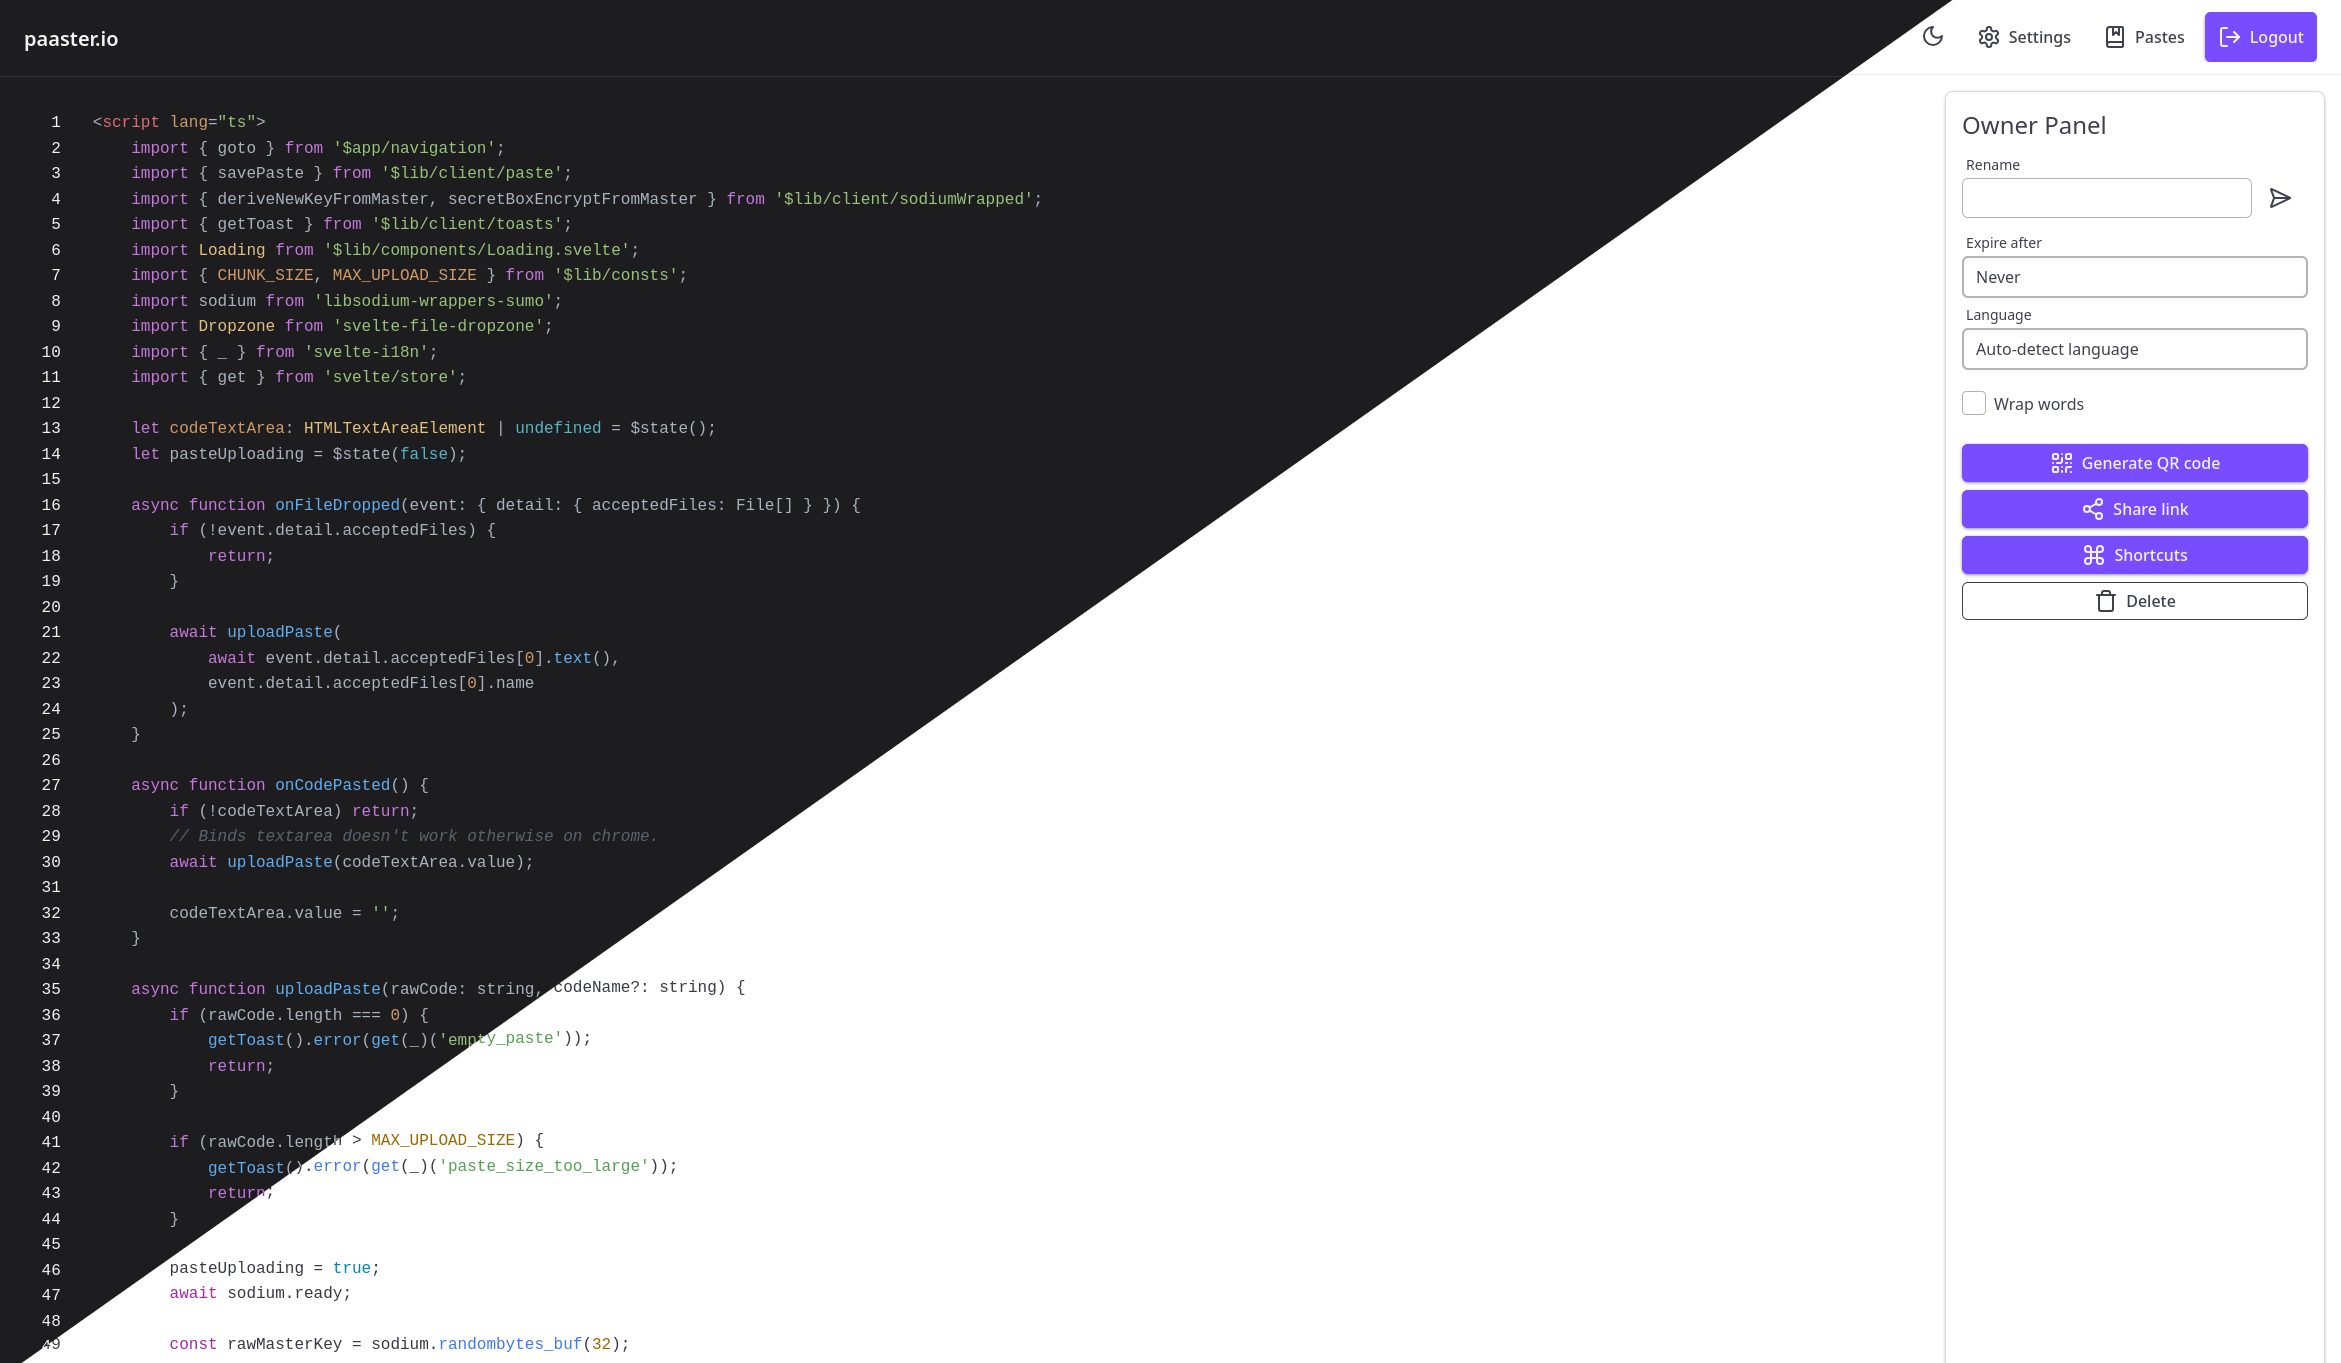
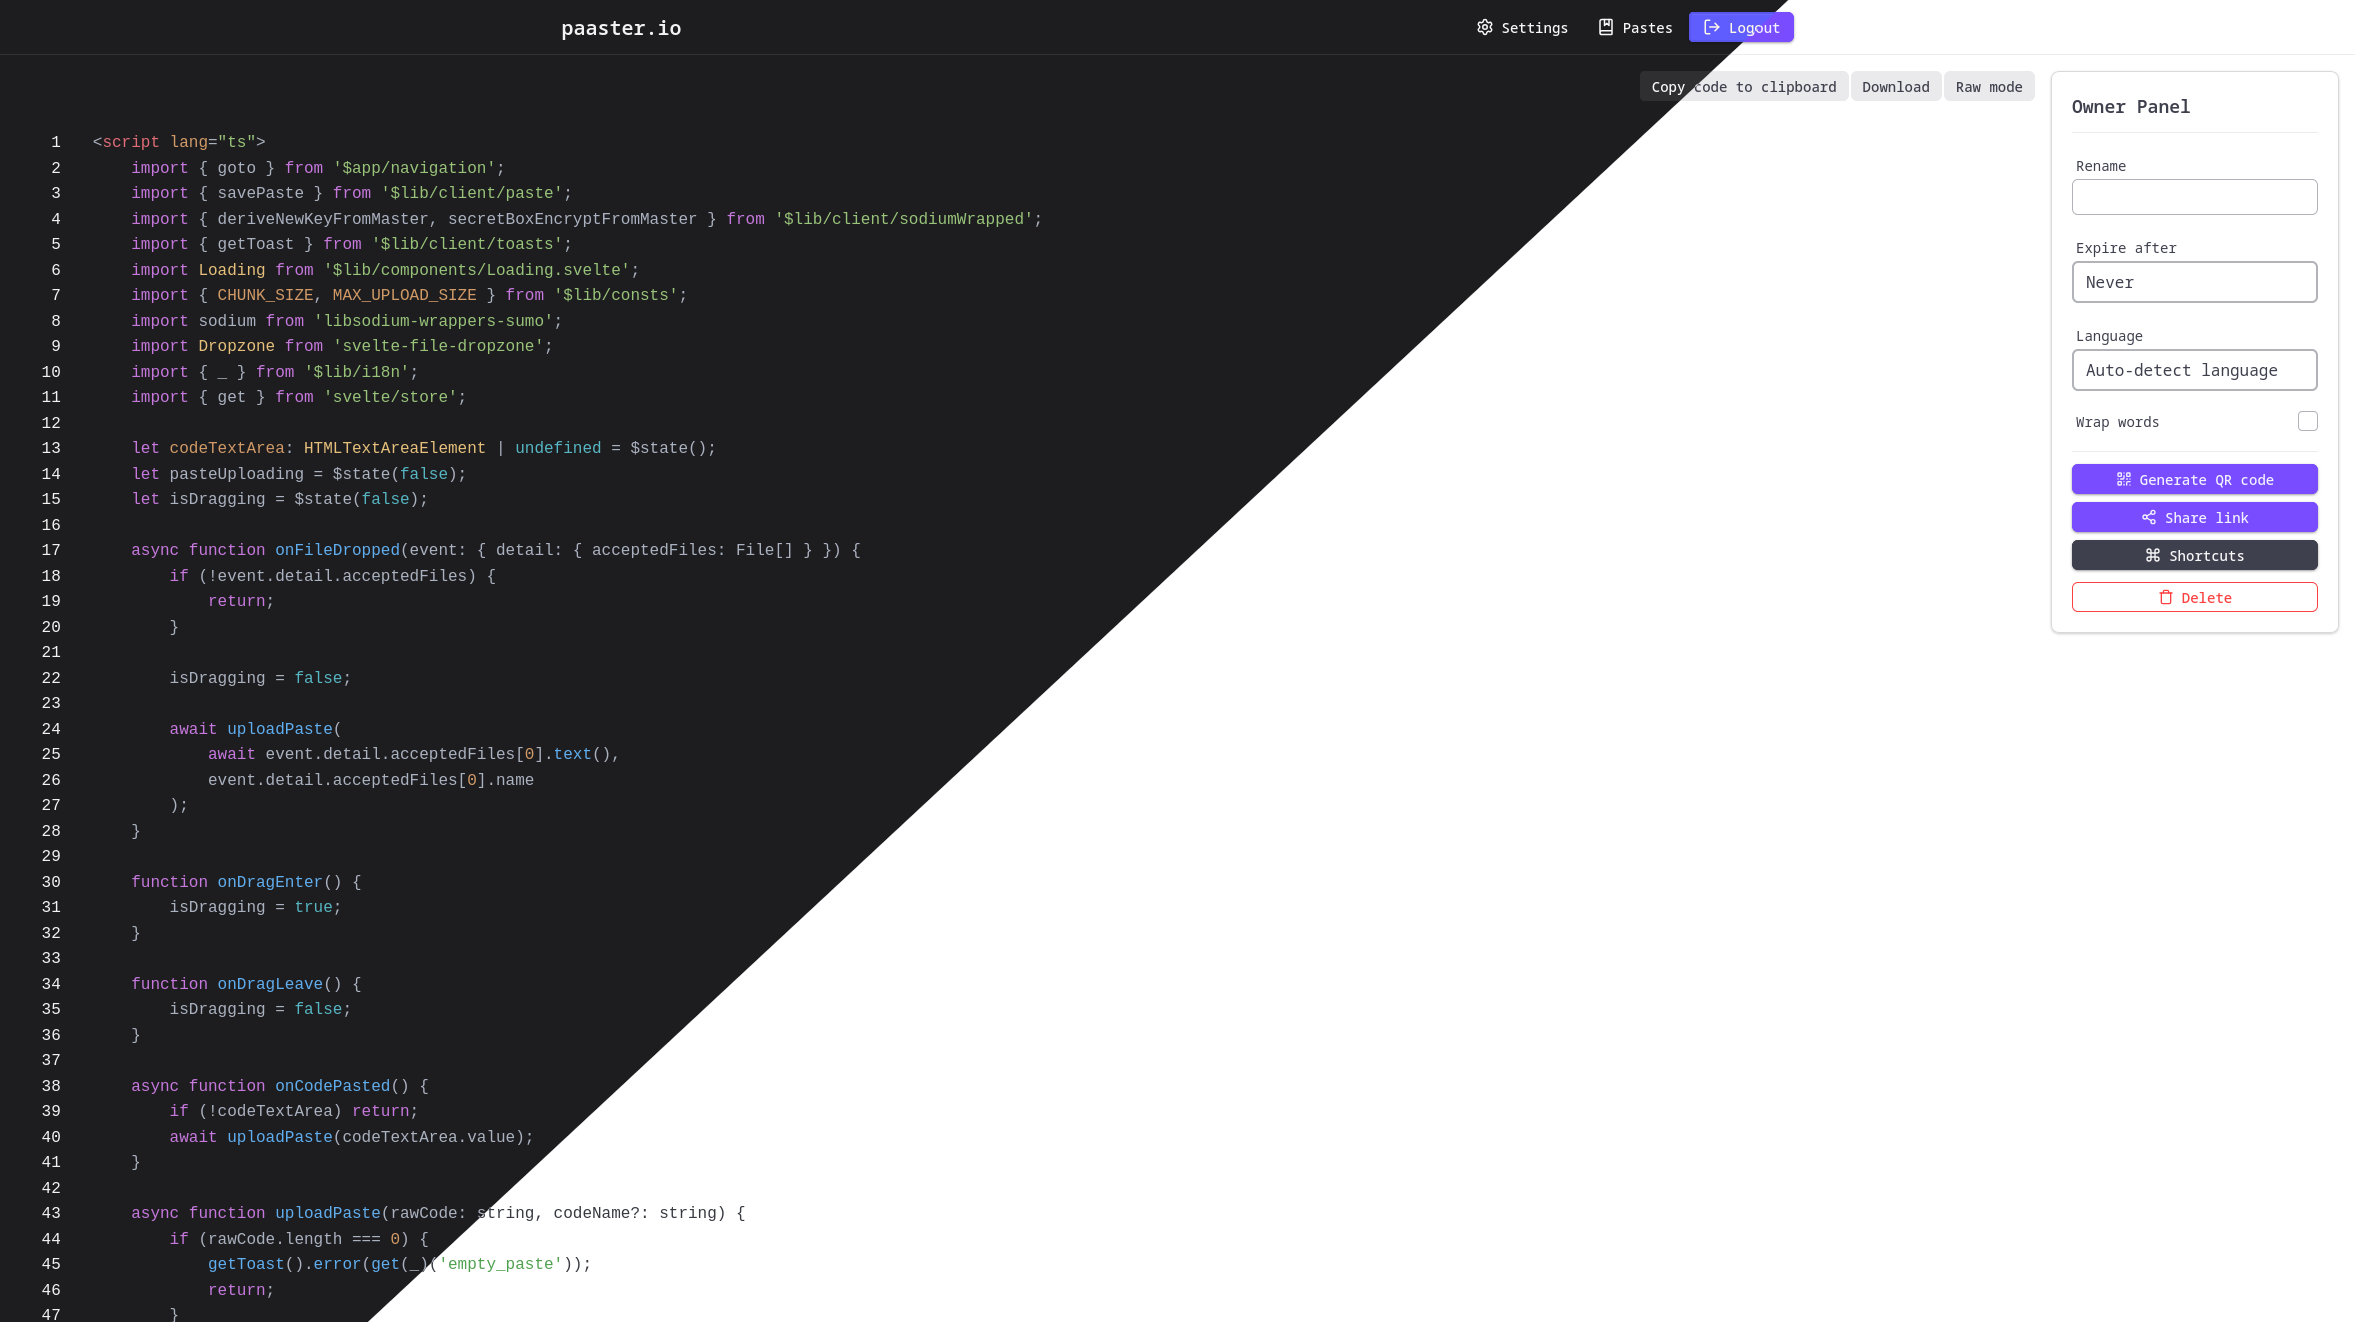
Update readme

diff --git a/README.md b/README.md
@@ -1,44 +1,68 @@
-&nbsp;
-
 <div align="center">
   <img src="./assets/logo.png" width="300px" />
   <h1>Paaster.io</h1>
-  <quote>
+  <blockquote>
     Paaster is a secure and user-friendly pastebin application that prioritizes privacy and simplicity. With end-to-end encryption and paste history, Paaster ensures that your pasted code remains confidential and accessible.
-  </quote>
+  </blockquote>
 
-<a href="https://paaster.io/terms-of-service">Terms of service |</a>
-<a href="https://paaster.io/privacy-policy"> Privacy policy</a>
+  <a href="https://paaster.io/terms-of-service">Terms of service</a> · <a href="https://paaster.io/privacy-policy">Privacy policy</a>
 
+  <br><br>
+
+  <a href="https://fink.inlang.com/github.com/WardPearce/paaster"><img src="https://img.shields.io/badge/Help_translate-0a0a0a?style=for-the-badge" alt="Translate"></a>
+  <a href="https://github.com/WardPearce/paaster/releases"><img src="https://img.shields.io/github/v/release/WardPearce/paaster?style=for-the-badge&label=Release&color=0a0a0a" alt="Release"></a>
+  <a href="https://matrix.to/#/#ward:matrix.org"><img src="https://img.shields.io/badge/Chat-0a0a0a?style=for-the-badge&logo=matrix" alt="Matrix"></a>
+  <a href="https://hub.docker.com/r/wardpearce/paaster"><img src="https://img.shields.io/docker/pulls/wardpearce/paaster?style=for-the-badge&label=Docker&color=0a0a0a" alt="Docker"></a>
 </div>
 
-&nbsp;
-
-[Help translate paaster!](https://fink.inlang.com/github.com/WardPearce/paaster)
+---
 
 # Preview
+
 ![Preview of paaster](./previews/image.png)
 
+---
+
+# Table of Contents
+
+- [Features](#features)
+- [Deployment](#deployment)
+  - [Docker Compose](#docker-compose)
+  - [Reverse Proxy](#reverse-proxy)
+  - [Minio Setup](#minio)
+- [Security](#security)
+  - [What is E2EE?](#what-is-e2ee)
+  - [FAQ](#faq)
+- [Cipher](#cipher)
+- [Requesting Features](#requesting-features)
+- [Support](#support)
+
+---
 
 # Features
-- [End-to-end encryption](#what-is-e2ee).
-- Memory efficient.
-- File drag & drop.
-- Shortcuts.
-- Paste history.
+
+- [End-to-end encryption](#what-is-e2ee)
+- Memory efficient
+- File drag & drop
+- Keyboard shortcuts
+- Paste history
 - Themes
-- Delete after view or X amount of time.
-- Share via QR code.
+- Delete after view or X amount of time
+- Share via QR code
 - [CLI Tool](https://github.com/WardPearce/paaster-cli)
-- i18n support ([Contribute](https://fink.inlang.com/github.com/WardPearce/paaster)).
-- Automatic or manual language detection.
-- No dynamically loaded 3rd party dependencies, meaning malicious code must be present at build time.
-- Use of `package-lock.json` & [Socket.dev](https://socket.dev/) to fight against supply chain attacks & vulnerabilities.
+- i18n support ([Contribute](https://fink.inlang.com/github.com/WardPearce/paaster))
+- Automatic or manual language detection
+- No dynamically loaded 3rd party dependencies — malicious code must be present at build time
+- Use of `package-lock.json` & [Socket.dev](https://socket.dev/) to fight supply chain attacks
+
+---
 
 # Deployment
-Paaster requires s3 for deployment, you can use a hosted solution or self-host using [MinIO](https://github.com/minio/minio).
 
-## Docker compose
+Paaster requires S3-compatible object storage. You can use a hosted solution or self-host using [MinIO](https://github.com/minio/minio).
+
+## Docker Compose
+
 ```yaml
 services:
   paaster:
@@ -68,8 +92,6 @@ services:
       MONGODB_DATA_DIR: /data/db
       MONDODB_LOG_DIR: /dev/null
 
-  # Not required if using a host s3 solution
-  # Must be reverse proxied so clients can access it
   paaster_minio:
     container_name: paaster_minio
     image: quay.io/minio/minio
@@ -85,26 +107,28 @@ services:
     command: server /data --console-address ":9001"
 ```
 
-## Reverse proxy
+## Reverse Proxy
 
 ### Caddy
+
 ```caddy
 paaster.io {
-	reverse_proxy localhost:3016
+    reverse_proxy localhost:3016
 }
 
-# Only required for Minio
+# Only required for MinIO
 s3.paaster.io {
-        header Access-Control-Allow-Origin "https://paaster.io" {
-                defer
-        }
-        header Access-Control-Allow-Methods "GET,POST,OPTIONS,HEAD,PATCH,PUT,DELETE"
-        header Access-Control-Allow-Headers "User-Agent,Authorization,Content-Type"
-	reverse_proxy localhost:9000
+    header Access-Control-Allow-Origin "https://paaster.io" {
+        defer
+    }
+    header Access-Control-Allow-Methods "GET,POST,OPTIONS,HEAD,PATCH,PUT,DELETE"
+    header Access-Control-Allow-Headers "User-Agent,Authorization,Content-Type"
+    reverse_proxy localhost:9000
 }
 ```
 
 ### NGINX
+
 ```nginx
 server {
     listen 80;
@@ -117,7 +141,7 @@ server {
     }
 }
 
-# Only required for minio
+# Only required for MinIO
 server {
     listen 80;
     server_name s3.paaster.io;
@@ -134,11 +158,14 @@ server {
 }
 ```
 
-## Minio
-### Install minio mc cli tool
-[Follow guide here](https://min.io/docs/minio/linux/reference/minio-mc.html#install-mc)
+## MinIO
+
+### Install mc CLI
+
+[Follow the official guide](https://min.io/docs/minio/linux/reference/minio-mc.html#install-mc)
 
 ### Add instance
+
 ```
 mc alias set minio_instance https://s3.paaster.io my_minio_username my_minio_password
 ```
@@ -146,23 +173,27 @@ mc alias set minio_instance https://s3.paaster.io my_minio_username my_minio_pas
 ### Create bucket
 
 ```
-mc mb minio_instance/paaster;mc anonymous set none minio_instance/paaster
+mc mb minio_instance/paaster
+mc anonymous set none minio_instance/paaster
 ```
 
 ### Get credentials
+
 ```
 mc admin accesskey create minio_instance/my_minio_username
 ```
 
 ### Object storage providers
+
 - [iDrive e2](https://www.idrive.com/e2/) (no free tier anymore)
 - [Wasabi Hot Cloud Storage](https://wasabi.com/hot-cloud-storage/)
-- [Storj](https://www.storj.io/) (25GB free tier)
+- [Storj](https://www.storj.io/) (25 GB free tier)
 - [Contabo object storage](https://contabo.com/en/object-storage/)
 - [Cloudflare R2](https://www.cloudflare.com/products/r2/)
 - [Amazon S3](https://aws.amazon.com/s3/)
 - [Google Cloud Storage](https://cloud.google.com/storage)
 
+---
 
 # Security
 
@@ -170,38 +201,50 @@ mc admin accesskey create minio_instance/my_minio_username
 
 End-to-end encryption (E2EE) is a zero-trust encryption methodology. When you paste code into Paaster, it is encrypted locally in your browser using a secret that is never shared with the server. Only people you share the link with can view the paste.
 
-## Can I trust a instance of paaster not hosted by me?
+## FAQ
 
-No. Anyone could modify the functionality of Paaster to expose your secret key to the server. We recommend using a instance you host or trust.
+### Can I trust an instance of Paaster not hosted by me?
 
-## How are client secrets stored?
+No. Anyone could modify the functionality of Paaster to expose your secret key to the server. We recommend using an instance you host or trust.
 
-Client secrets are stored with IndexedDB when the paste is created, allowing for paste history. This method of storage makes Paaster vulnerable to malicious JavaScript, but it would require malicious code to be present when the Svelte application is built.
+### How are client secrets stored?
 
-## How are client secrets transported?
+Client secrets are stored in IndexedDB when the paste is created, allowing for paste history. This method of storage makes Paaster vulnerable to malicious JavaScript, but it would require malicious code to be present when the application is built.
 
-Paaster uses URI fragments to transport secrets, according to the [Mozilla foundation](https://developer.mozilla.org/en-US/docs/Learn/Common_questions/Web_mechanics/What_is_a_URL#anchor) URI fragments aren't meant to be sent to the server. Bitwarden also has a article covering this usage [here](https://bitwarden.com/blog/bitwarden-send-how-it-works/).
+### How are client secrets transported?
 
-## How are server secrets stored?
+Paaster uses URI fragments to transport secrets. According to the [Mozilla Foundation](https://developer.mozilla.org/en-US/docs/Learn/Common_questions/Web_mechanics/What_is_a_URL#anchor), URI fragments aren't meant to be sent to the server. Bitwarden also has an article covering this usage [here](https://bitwarden.com/blog/bitwarden-send-how-it-works/).
 
-Server secrets are stored with IndexedDB when the paste is created, allowing for modification or deletion of pastes later on.
+### How are server secrets stored?
 
-## Cipher
+Server secrets are stored in IndexedDB when the paste is created, allowing for modification or deletion of pastes later on.
 
-Paaster uses the following libsodium functions crypto_secretstream_xchacha20poly1305_*, crypto_pwhash & crypto_secretbox_easy, which is implemented using the [libsodium-wrappers-sumo](https://www.npmjs.com/package/libsodium-wrappers-sumo) library.
+---
 
-# Requesting features
+# Cipher
 
-- Open a [new issue](https://github.com/WardPearce/paaster/issues/new) to request a feature (one issue per feature.)
+Paaster uses the following libsodium functions:
 
-## What we won't add
+- `crypto_secretstream_xchacha20poly1305_*`
+- `crypto_pwhash`
+- `crypto_secretbox_easy`
 
-- Paste editing.
-  - Paaster isn't a text editor, it's a pastebin.
-- Paste button.
-  - Paaster isn't a text editor, when code is inputted it will always be automatically uploaded.
-- Optional encryption.
-  - Paaster will never have opt-in / opt-out encryption, encryption will always be present.
+These are implemented using the [libsodium-wrappers-sumo](https://www.npmjs.com/package/libsodium-wrappers-sumo) library.
 
-# Have any questions?
-[Join our Matrix space](https://matrix.to/#/#ward:matrix.org)
+---
+
+# Requesting Features
+
+- Open a [new issue](https://github.com/WardPearce/paaster/issues/new) to request a feature (one issue per feature).
+
+### What we won't add
+
+- **Paste editing** — Paaster isn't a text editor, it's a pastebin.
+- **Paste button** — Paaster isn't a text editor. When code is inputted, it will always be automatically uploaded.
+- **Optional encryption** — Paaster will never have opt-in/opt-out encryption. Encryption will always be present.
+
+---
+
+# Support
+
+Have any questions? [Join our Matrix space](https://matrix.to/#/#ward:matrix.org).